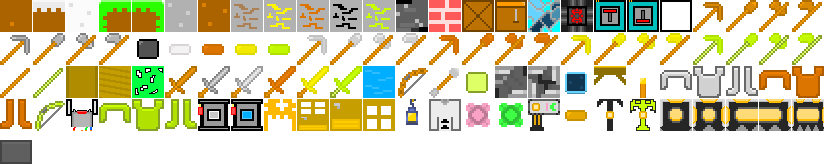
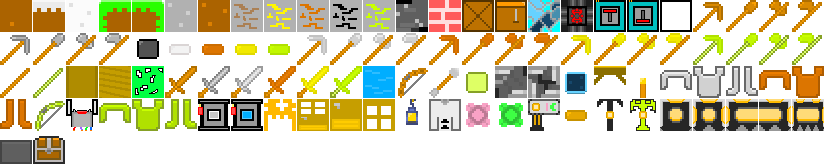
Phobos

Changed region(s): [[0.0303, 0.8232, 0.091, 1.0], [0.5461, 0.0, 0.6371, 0.2134]]

diff --git a/Assets/Scripts/GameManager.cs b/Assets/Scripts/GameManager.cs
@@ -1100,9 +1100,13 @@ public class GameManager : MonoBehaviour
                 int xPosition = Random.Range(0, WorldWidth * 16);
                 int idx = yPosition + (xPosition * WorldHeight);
 
-                buildedMapGrid[idx] = 15;
-                string[] loot = { "15@true@30:5#32:3@@0", "15@true@39:1#64:5@@0", "15@true@75:1#51:13@@0", "15@true@70:3#6:6@@0", "15@true@30:7#31:4@@0" };
-                allMapProp[idx] = loot[Random.Range(0, loot.Length)];
+                if (buildedMapGrid[idx - 1] != 0 && buildedMapGrid[idx - 1] != 0 && buildedMapGrid[idx] == 0)
+                {
+                    buildedMapGrid[idx] = 102;
+                    string[] loot = { "102@true@30:5#32:3@@0", "102@true@39:1#64:5@@0", "102@true@75:1#51:13@@0", "102@true@70:3#6:6@@0", "102@true@30:7#31:4@@0" };
+                    allMapProp[idx] = loot[Random.Range(0, loot.Length)];
+                }
+                else i--;
             }
             
         }

diff --git a/Assets/Scripts/Controllers/ChunkController.cs b/Assets/Scripts/Controllers/ChunkController.cs
@@ -476,6 +476,13 @@ public class ChunkController : MonoBehaviour, ITimerCall
             unitCenter.name = "101";
             unitCenter.transform.localPosition = Vector2.zero;
         }
+
+        if (TileGrid[e] == 102 && TileObject[e].transform.childCount < 1)
+        {
+            GameObject boxBlock = Instantiate(boxObject, TileObject[e].transform);
+            boxBlock.transform.localPosition = Vector2.zero;
+            boxBlock.name = "102";
+        }
     }
 
 

diff --git a/Assets/Scripts/Controllers/WorkItemController.cs b/Assets/Scripts/Controllers/WorkItemController.cs
@@ -72,5 +72,10 @@ public class WorkItemController : MonoBehaviour {
                 MenuController.menuController.PlanetMenuDeploy(rayHit.transform.GetChild(0).GetComponent<ResourceLauncher>());
             }
         }
+
+        if (tile == 102)
+        {
+            rayHit.transform.GetChild(0).GetComponent<Box>().ToggleItems();
+        }
     }
 }
